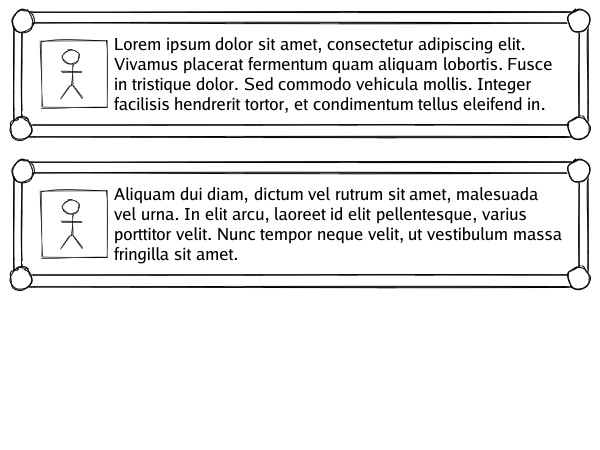
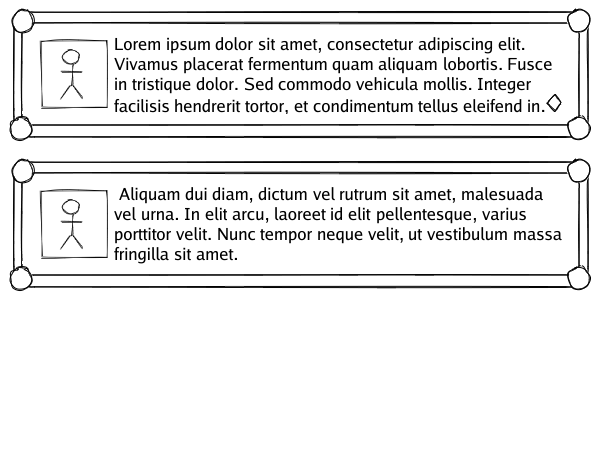
End of text chevron works

Changed region(s): [[0.18, 0.4044, 0.9, 0.4667], [0.18, 0.2178, 0.93, 0.2489]]

diff --git a/textbox.go b/textbox.go
@@ -118,7 +118,7 @@ func NewSimpleTextBox(th theme.Theme, text string, destSize image.Point, options
 		option.apply(tb)
 	}
 	if tb.moreChevronLocation == TextEndChevron {
-		//tb.wordwrapOptions = append(tb.wordwrapOptions, wordwrap.PageBreakBox(th.Chevron()))
+		tb.wordwrapOptions = append(tb.wordwrapOptions, wordwrap.NewPageBreakBox(wordwrap.NewImageBox(th.Chevron())))
 	}
 	if tb.wrapper == nil {
 		tb.wrapper = wordwrap.NewSimpleWrapper(text, th.FontFace(), tb.wordwrapOptions...)
